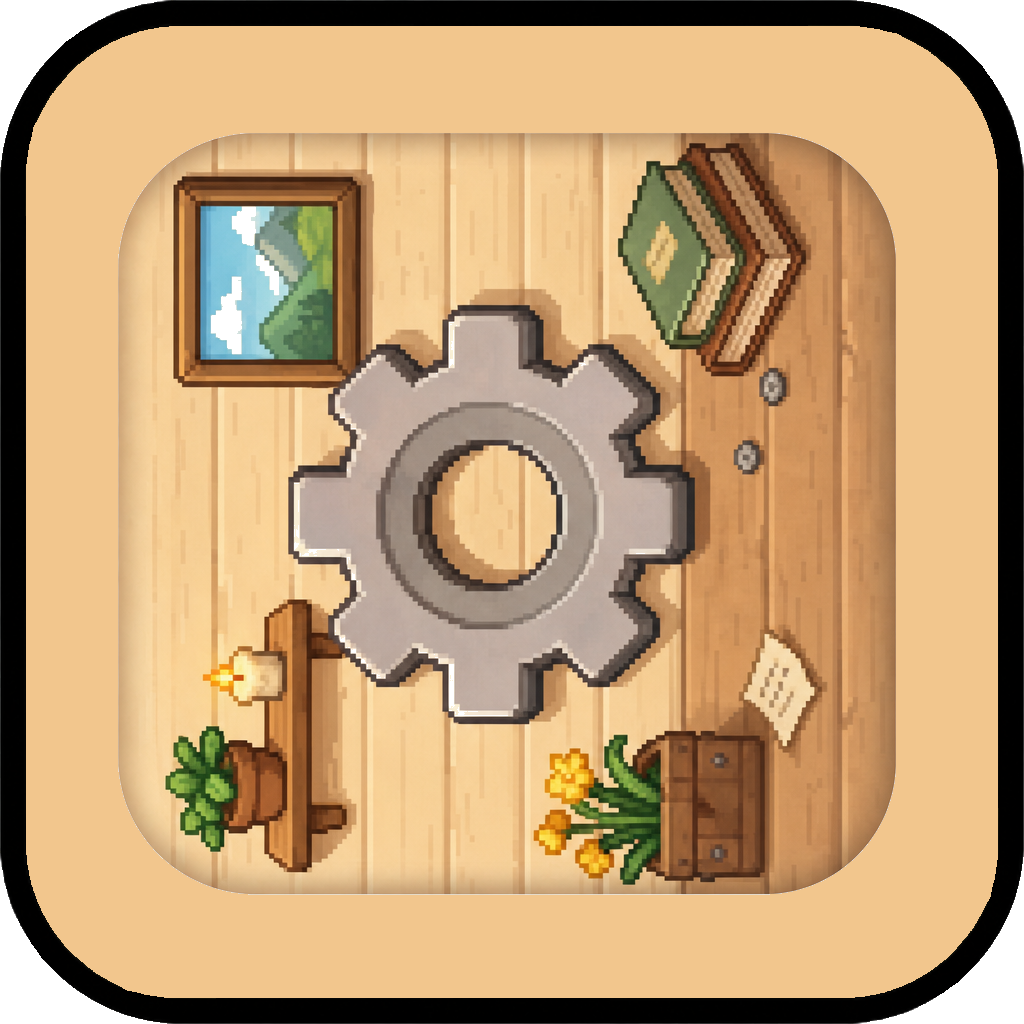
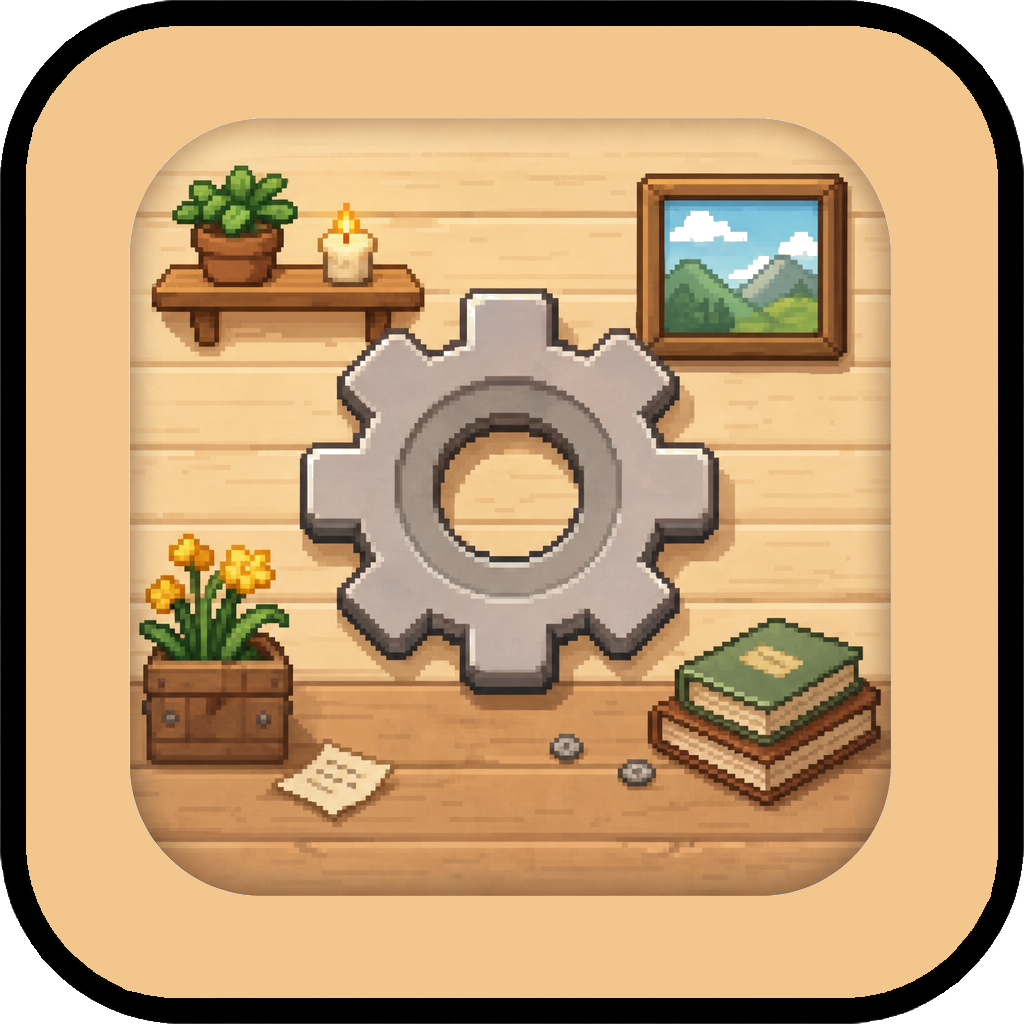
added docked menu texture, added live app texture change

diff --git a/HelperPhoneMenu/PhoneAppLayoutManager.cs b/HelperPhoneMenu/PhoneAppLayoutManager.cs
@@ -43,7 +43,8 @@ namespace Smartphone
         ChangeSize3x2,
         ChangeSize4x2,
         ChangeSize4x3,
-        ChangeSize4x4
+        ChangeSize4x4,
+        SelectTheme
     }
 
     internal sealed class PhoneAppLayoutManager
@@ -52,17 +53,17 @@ namespace Smartphone
 
         // Grid Geometry
         private const int GridCols = 4;
-        private const int GridRows = 5;
+        private const int GridRows = 6;
         private const int GridCellSize = 114;
-        private const int GridStartX = 23;
-        private const int GridStartY = 50;
-        private const int GridPadding = 6;
+        private const int GridStartX = 32;
+        private const int GridStartY = 3;
+        private const int GridPadding = 0;
 
         // Dock Geometry
         private const int DockCellSize = 96;
         private const int DockPadding = 8;
         private const int DockCols = 4;
-        private const int DockStartY = 702;
+        private const int DockStartY = 708;
 
         private const int GridIconPadding = 14;
         private const int DockIconPadding = 4;
@@ -72,12 +73,12 @@ namespace Smartphone
 
         // UI Header Controls
         private const int DoneButtonX = 350;
-        private const int DoneButtonY = 12;
+        private const int DoneButtonY = 0;
         private const int DoneButtonW = 115;
         private const int DoneButtonH = 36;
 
         private const int ResetButtonX = 55;
-        private const int ResetButtonY = 12;
+        private const int ResetButtonY = 0;
         private const int ResetButtonW = 115;
         private const int ResetButtonH = 36;
 
@@ -98,6 +99,9 @@ namespace Smartphone
         private AppSize _dragAppSize;
         private int _dragMouseX, _dragMouseY;
         private LayoutItem? _draggedItem;
+
+        // theme option
+        private bool _isDropdownShowingThemes;
 
         private bool _hoverIsOnIcon;
         private bool _hoverIsOnGap;
@@ -159,6 +163,7 @@ namespace Smartphone
             _dropdownOpen = false;
             _openFolder = null;
             _isEditingFolderName = false;
+            _isDropdownShowingThemes = false;
         }
 
         public void ExitReorderMode()
@@ -389,7 +394,34 @@ namespace Smartphone
                 }
                 else
                 {
+                    // Check if the user is clicking the EXACT same app icon that the dropdown is open for
+                    if (_dropdownForMainIndex >= 0 && _currentPage >= 0 && _currentPage < _pages.Count)
+                    {
+                        var page = _pages[_currentPage];
+                        if (_dropdownForMainIndex < page.Count)
+                        {
+                            var item = page[_dropdownForMainIndex];
+                            // Check if the cursor coordinates are inside the app icon's bounding hitbox
+                            if (_mainClickBounds.TryGetValue(item.AppId + "_" + _dropdownForMainIndex, out Rectangle appBounds) && appBounds.Contains(x, y))
+                            {
+                                // If we aren't already viewing themes, transition to the texture selection view
+                                if (!_isDropdownShowingThemes)
+                                {
+                                    _isDropdownShowingThemes = true;
+                                    List<HomeAppEntryProxy> allApps = BuildAllAppsSnapshot();
+                                    HomeAppEntryProxy? app = FindApp(allApps, item.AppId);
+
+                                    BuildThemeDropdownItems(appBounds, app);
+                                    Game1.playSound("smallSelect");
+                                    return true; // Consume the click and remain open
+                                }
+                            }
+                        }
+                    }
+
+                    // Otherwise, clicking completely outside closes the menu entirely
                     _dropdownOpen = false;
+                    _isDropdownShowingThemes = false;
                 }
                 return true;
             }
@@ -968,8 +1000,16 @@ namespace Smartphone
         private void DrawDock(SpriteBatch b, List<HomeAppEntryProxy> allApps)
         {
             Rectangle contentRect = _menu.GetPhoneContentBounds();
-            Rectangle dockBgRect = new Rectangle(contentRect.X, contentRect.Y + ScaleUi(690), contentRect.Width, ScaleUi(120));
-            b.Draw(Game1.staminaRect, dockBgRect, new Color(80, 80, 80, 180));
+            Rectangle dockBgRect = new Rectangle(contentRect.X, contentRect.Y + ScaleUi(702), contentRect.Width, ScaleUi(108));
+
+            if (Textures.DockedMenuBackground != null)
+            {
+                b.Draw(Textures.DockedMenuBackground, dockBgRect, Color.White);
+            }
+            else
+            {
+                b.Draw(Game1.staminaRect, dockBgRect, new Color(80, 80, 80, 180));
+            }
 
             int count = _dock.Count;
             int displayCount = Math.Max(1, count);
@@ -1460,10 +1500,43 @@ namespace Smartphone
                 if (item.option == DropdownOption.ChangeSize4x3) ApplySize(AppSize.Size4x3);
                 if (item.option == DropdownOption.ChangeSize4x4) ApplySize(AppSize.Size4x4);
 
+                // Handle texture sub-theme choice execution
+                if (item.option == DropdownOption.SelectTheme)
+                {
+                    ApplyTheme(_dropdownAppId!, item.label);
+                    _dropdownOpen = false;
+                    _isDropdownShowingThemes = false;
+                    return;
+                }
+
                 _dropdownOpen = false;
                 Game1.playSound("smallSelect");
                 return;
             }
+        }
+
+        private string GetThemeComponentForApp(string appId)
+        {
+            if (appId.StartsWith("builtin:", StringComparison.OrdinalIgnoreCase))
+            {
+                return "app_" + appId.Substring("builtin:".Length);
+            }
+            return "app_" + appId.Replace(":", "_");
+        }
+
+        private void ApplyTheme(string appId, string themeName)
+        {
+            if (string.IsNullOrEmpty(appId)) return;
+            string component = GetThemeComponentForApp(appId);
+
+            // Save choice to component_themes json data manifest
+            AssetHelper.SetComponentTheme(component, themeName);
+
+            // Clear the active in-memory cache to terminate old textures references completely
+            Textures.AppTextureCache?.Clear();
+
+            // Re-bind graphics pointers immediately across the screen context
+            _menu.ReloadThemeTextures();
         }
 
         private void ApplySize(AppSize newSize)
@@ -1677,7 +1750,6 @@ namespace Smartphone
 
             if (_dragFromDock && _dragSourceIndex == _hoverDockIndex && _hoverIsOnIcon && _openFolder == null)
             {
-                _dock.Insert(Math.Clamp(_dragSourceIndex, 0, _dock.Count), _dragAppId);
                 _hoverMainIndex = -1; _hoverDockIndex = -1; _hoverCellCol = -1; _hoverCellRow = -1;
                 return;
             }
@@ -2056,6 +2128,46 @@ namespace Smartphone
         {
             if (string.IsNullOrEmpty(id)) return null;
             return apps.FirstOrDefault(a => string.Equals(a.Id, id, StringComparison.OrdinalIgnoreCase));
+        }
+
+
+
+        private void BuildThemeDropdownItems(Rectangle anchorBounds, HomeAppEntryProxy? app)
+        {
+            _dropdownItems.Clear();
+            if (app == null) return;
+
+            string component = GetThemeComponentForApp(app.Id);
+            List<string> themes = new() { "default" };
+
+            // Scan your phone_themes folder for any component-specific styles
+            string themeComponentDir = Path.Combine(ModEntry.Instance.Helper.DirectoryPath, "phone_themes", component);
+            if (Directory.Exists(themeComponentDir))
+            {
+                foreach (string dir in Directory.GetDirectories(themeComponentDir))
+                {
+                    string name = Path.GetFileName(dir);
+                    if (!string.Equals(name, "default", StringComparison.OrdinalIgnoreCase))
+                    {
+                        themes.Add(name);
+                    }
+                }
+            }
+
+            int itemH = ScaleUi(32), itemW = ScaleUi(140);
+            int x = anchorBounds.X, y = anchorBounds.Bottom + ScaleUi(4);
+
+            // Dynamic viewport bounding protection so choices don't bleed past the bottom phone edge
+            Rectangle contentBounds = _menu.GetPhoneContentBounds();
+            if (y + themes.Count * (itemH + ScaleUi(2)) > contentBounds.Bottom)
+            {
+                y = anchorBounds.Top - themes.Count * (itemH + ScaleUi(2)) - ScaleUi(4);
+            }
+
+            for (int i = 0; i < themes.Count; i++)
+            {
+                _dropdownItems.Add((DropdownOption.SelectTheme, new Rectangle(x, y + i * (itemH + ScaleUi(2)), itemW, itemH), themes[i]));
+            }
         }
     }
 

diff --git a/Texture.cs b/Texture.cs
@@ -15,7 +15,8 @@ namespace Smartphone
         public static Texture2D PhoneEmpty;
         public static Texture2D Background;
         public static Texture2D GroupBackground;
-        public static Texture2D CardTexture; // Universal UI card element background texture
+        public static Texture2D CardTexture;
+        public static Texture2D DockedMenuBackground;
 
         public static Texture2D AppCamera;
         public static Texture2D AppPhoto;
@@ -25,7 +26,7 @@ namespace Smartphone
         public static Texture2D AppCalendar;
 
         // In-memory cache to keep CPU/RAM footprint flat and eliminate draw-loop lag
-        private static readonly Dictionary<string, Texture2D> AppTextureCache = new(StringComparer.OrdinalIgnoreCase);
+        public static readonly Dictionary<string, Texture2D> AppTextureCache = new(StringComparer.OrdinalIgnoreCase);
 
         public static void LoadTextures()
         {
@@ -41,6 +42,7 @@ namespace Smartphone
                 Background = TryLoadWithFallback(Path.Combine(phonePath, "background.png"), Path.Combine(AssetHelper.GetPhoneThemesRootPath(), "phone", "default", "background.png"));
                 GroupBackground = TryLoadWithFallback(Path.Combine(phonePath, "group_background.png"), Path.Combine(AssetHelper.GetPhoneThemesRootPath(), "phone", "default", "group_background.png"));
                 CardTexture = TryLoadWithFallback(Path.Combine(phonePath, "card_texture.png"), Path.Combine(AssetHelper.GetPhoneThemesRootPath(), "phone", "default", "card_texture.png"));
+                DockedMenuBackground = TryLoadWithFallback(Path.Combine(phonePath, "docked_menu.png"), Path.Combine(AssetHelper.GetPhoneThemesRootPath(), "phone", "default", "docked_menu.png"));
 
                 // Pre-populate standard 1x1 slots
                 AppCamera = GetAppTexture("builtin:camera", AppSize.Size1x1);